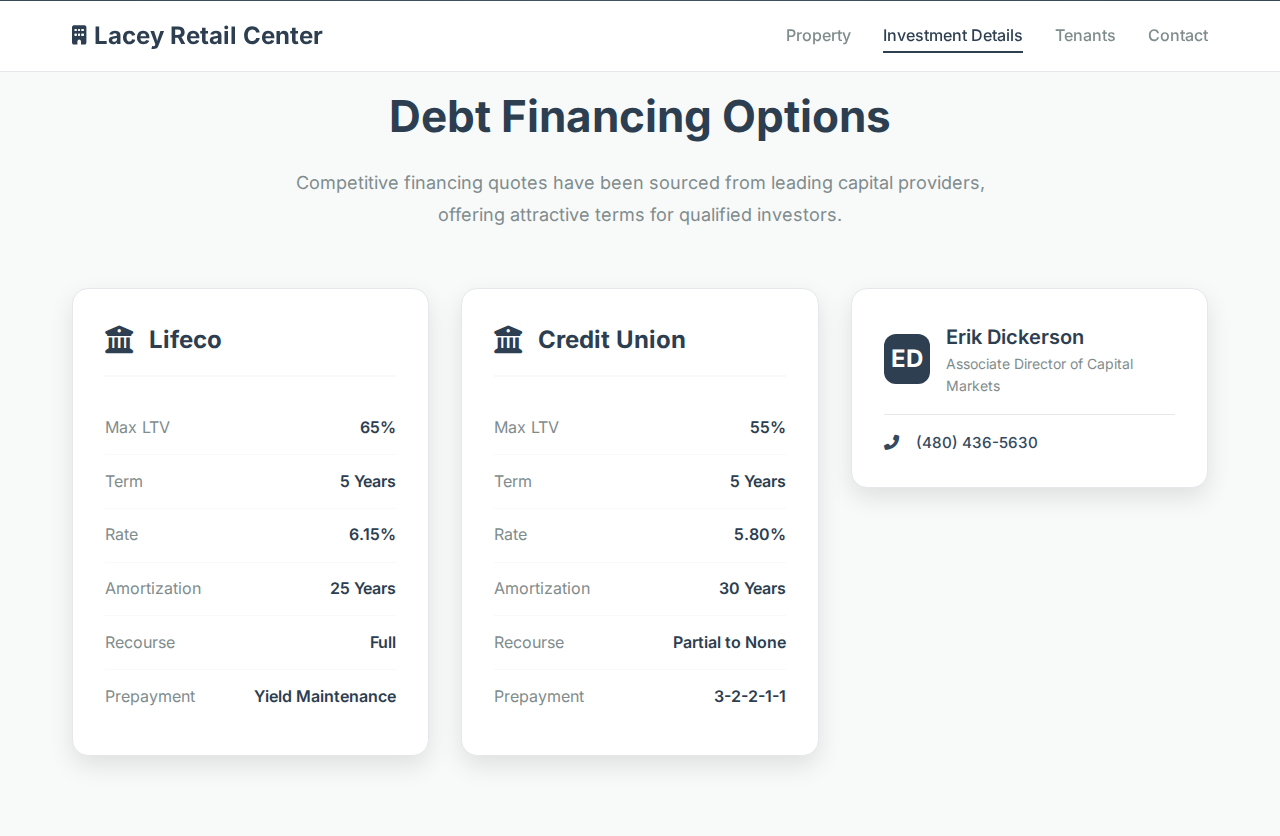
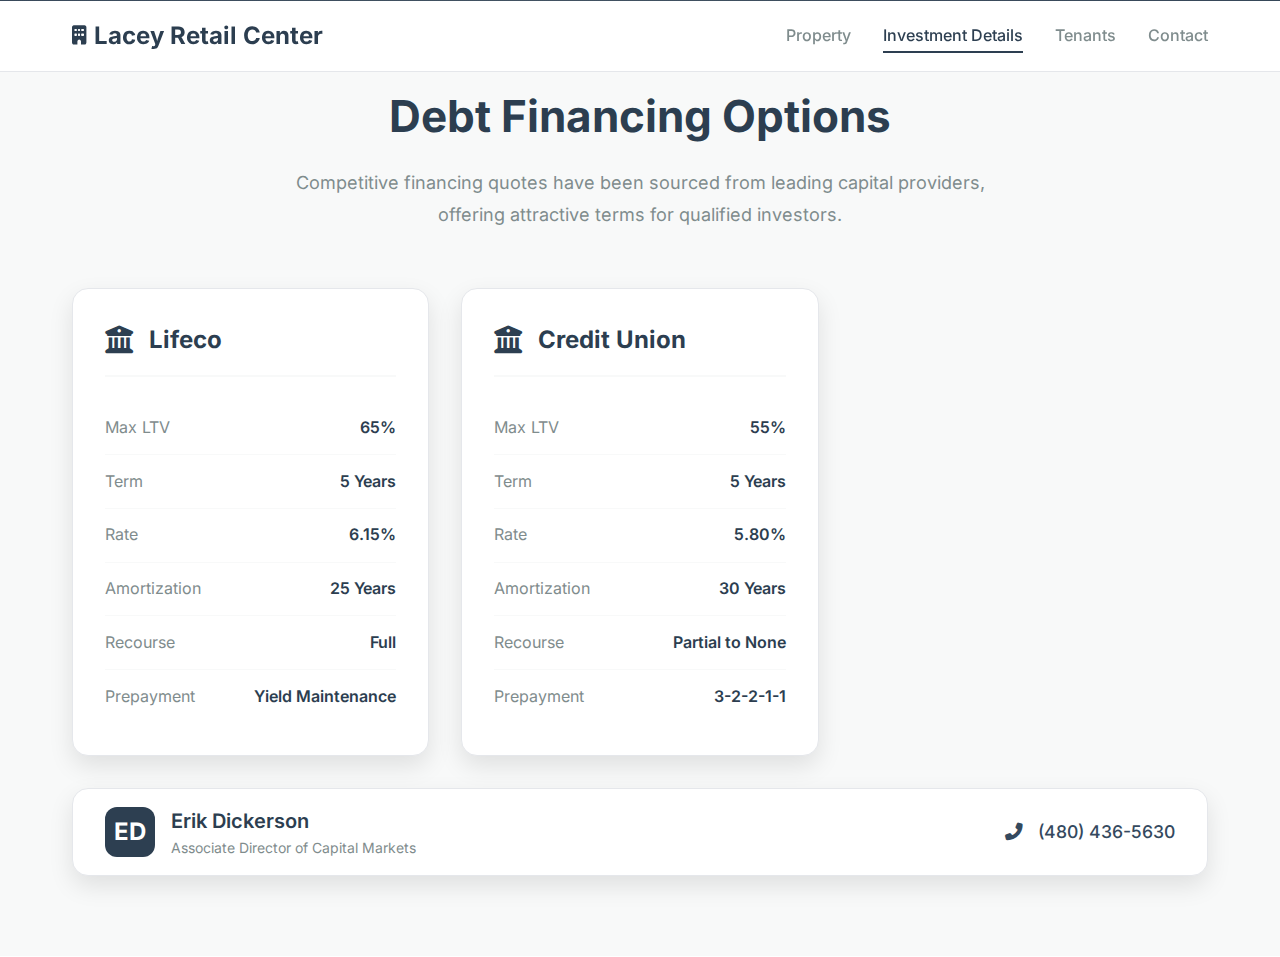
Refactor: Redesign lender contact card layout
This commit refactors the layout of the lender contact card in the debt financing section based on user feedback. The card is now a full-width, thin, and minimalist component that sits underneath the two debt quote cards.

The following changes were made:
- Modified the CSS for the `.lender-contact-card` to span the full width of the grid and have a horizontal flex layout.
- Adjusted the padding of the card to make it thinner.
- Reverted the `align-items: start;` change on the grid container to restore the original layout for the debt quote cards.

diff --git a/about.html b/about.html
@@ -17,7 +17,6 @@
                 grid-template-columns: repeat(auto-fit, minmax(350px, 1fr));
                 gap: 2rem;
                 margin-top: 3rem;
-                align-items: start;
             }
 
             .debt-card {
@@ -184,11 +183,15 @@
 
             /* Lender Contact Card Styles */
             .lender-contact-card {
-                background: var(--white);
+                grid-column: 1 / -1;
+                display: flex;
+                align-items: center;
+                justify-content: space-between;
+                padding: 1rem 2rem;
             }
             .lender-contact-card .footer-card-header {
                 border-bottom: none;
-                margin-bottom: 1rem;
+                margin-bottom: 0;
             }
             .lender-contact-card .footer-card-name {
                 color: var(--primary-navy);
@@ -198,12 +201,13 @@
                 color: var(--medium-gray);
             }
             .lender-contact-card .footer-card-info {
-                border-top: 1px solid var(--border-color);
-                padding-top: 1rem;
+                border-top: none;
+                padding-top: 0;
             }
             .lender-contact-card .footer-card-info a {
                 color: var(--dark-text);
                 font-weight: 500;
+                font-size: 1.1rem;
             }
             .lender-contact-card .footer-card-info a:hover {
                 color: var(--accent-navy);
